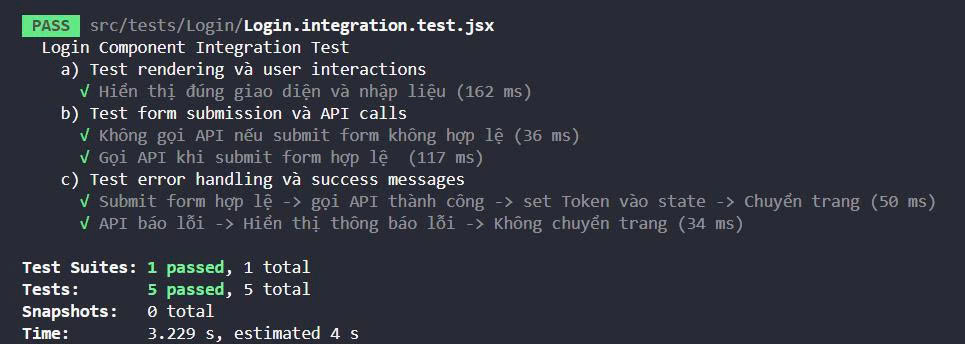
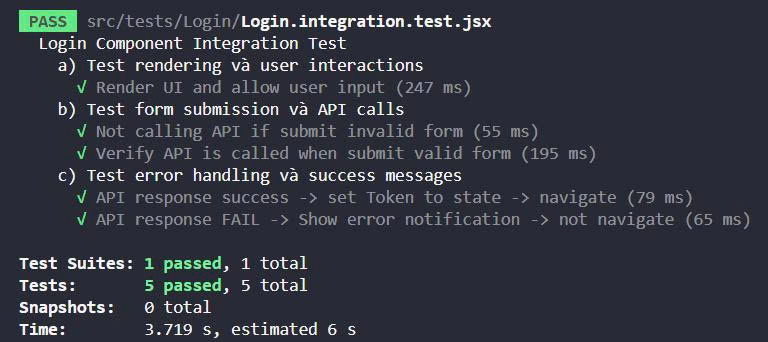
report

Changed region(s): [[0.0, 0.0292, 0.9688, 0.6725], [0.0, 0.731, 0.4688, 0.9942]]

diff --git a/FloginFE_BE/frontend/src/tests/Login/Login.integration.test.jsx b/FloginFE_BE/frontend/src/tests/Login/Login.integration.test.jsx
@@ -20,7 +20,7 @@ describe("Login Component Integration Test", () => {
   // a) Test rendering và user interactions (2 điểm)
   //===============================================
   describe("a) Test rendering và user interactions", () => {
-    test("Hiển thị đúng giao diện và nhập liệu", async () => {
+    test("Render UI and allow user input", async () => {
       render(
         <MemoryRouter>
           <Login />
@@ -189,7 +189,7 @@ describe("Login Component Integration Test", () => {
   // b) Test form submission và API calls (2 điểm)
   //===============================================
   describe("b) Test form submission và API calls", () => {
-    test("Không gọi API nếu submit form không hợp lệ", async () => {
+    test("Not calling API if submit invalid form", async () => {
       render(
         <MemoryRouter>
           <Login />
@@ -208,7 +208,7 @@ describe("Login Component Integration Test", () => {
       });
     });
 
-    test("Gọi API khi submit form hợp lệ ", async () => {
+    test("Verify API is called when submit valid form", async () => {
       render(
         <MemoryRouter>
           <Login />
@@ -239,7 +239,7 @@ describe("Login Component Integration Test", () => {
       removeJWTfromCookie();
       jest.clearAllMocks();
     });
-    test("Submit form hợp lệ -> gọi API thành công -> set Token vào state -> Chuyển trang", async () => {
+    test("API response success -> set Token to state -> navigate", async () => {
       authService.logIn.mockResolvedValue({
         status: 200,
         accessToken: "mockAccessToken",
@@ -286,7 +286,7 @@ describe("Login Component Integration Test", () => {
       });
     });
 
-    test("API báo lỗi -> Hiển thị thông báo lỗi -> Không chuyển trang", async () => {
+    test("API response FAIL -> Show error notification -> not navigate", async () => {
       authService.logIn.mockRejectedValue(new Error("API Login Error"));
 
       render(

diff --git a/FloginFE_BE/frontend/src/tests/Product/Product.integration.test.jsx b/FloginFE_BE/frontend/src/tests/Product/Product.integration.test.jsx
@@ -408,7 +408,7 @@ describe("Product Components Integration Test", () => {
       useProductStore.setState(originalState, true);
     });
 
-    test("Hiển thị đầy đủ thông tin chi tiết sản phẩm trong table", async () => {
+    test("Should have enough fields of products", async () => {
       render(<ProductTable onEdit={mockOnEdit} onDelete={mockOnDelete} />);
 
       await waitFor(() => {
@@ -430,7 +430,7 @@ describe("Product Components Integration Test", () => {
       expect(formatVND).toHaveBeenCalledWith(18000000);
     });
 
-    test("Hiển thị giá đã được format", async () => {
+    test("Price should be formatted", async () => {
       // Mock formatVND
       formatVND.mockImplementation((amount) => {
         const formats = {
